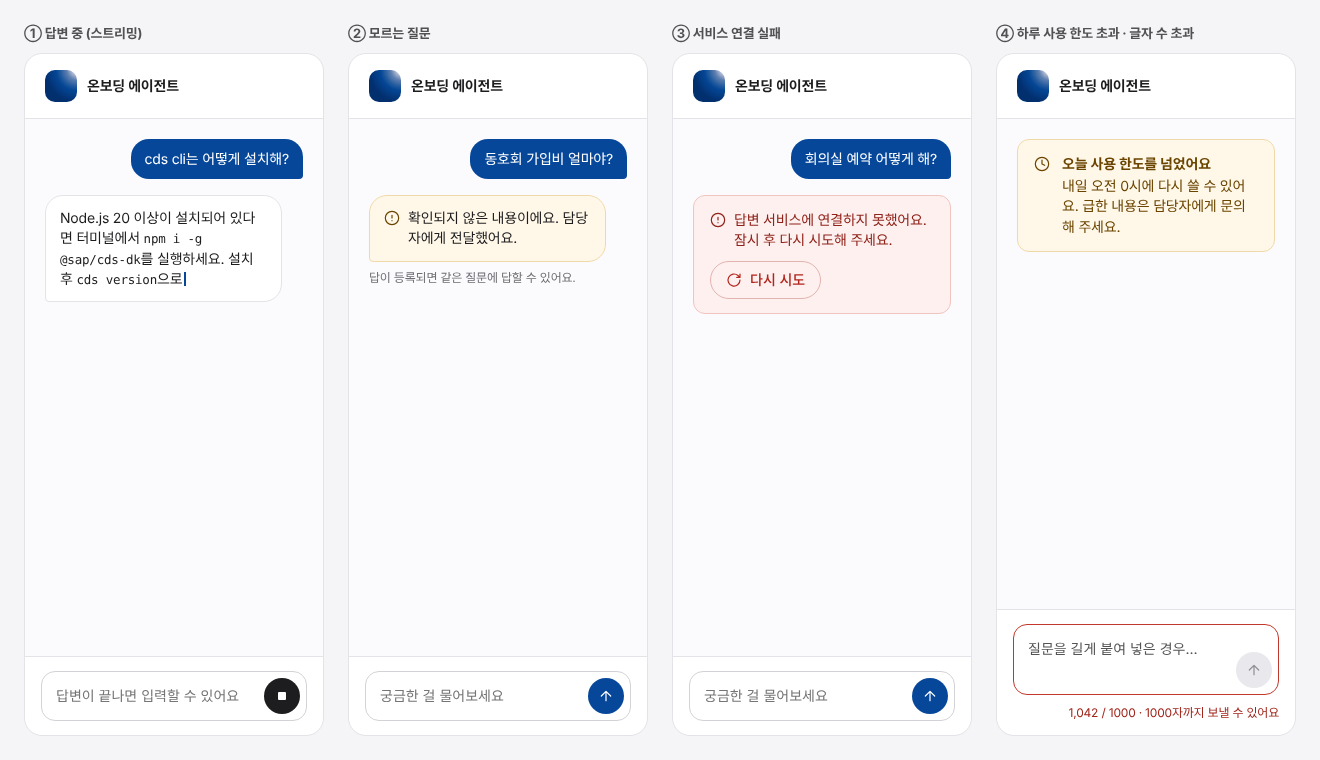
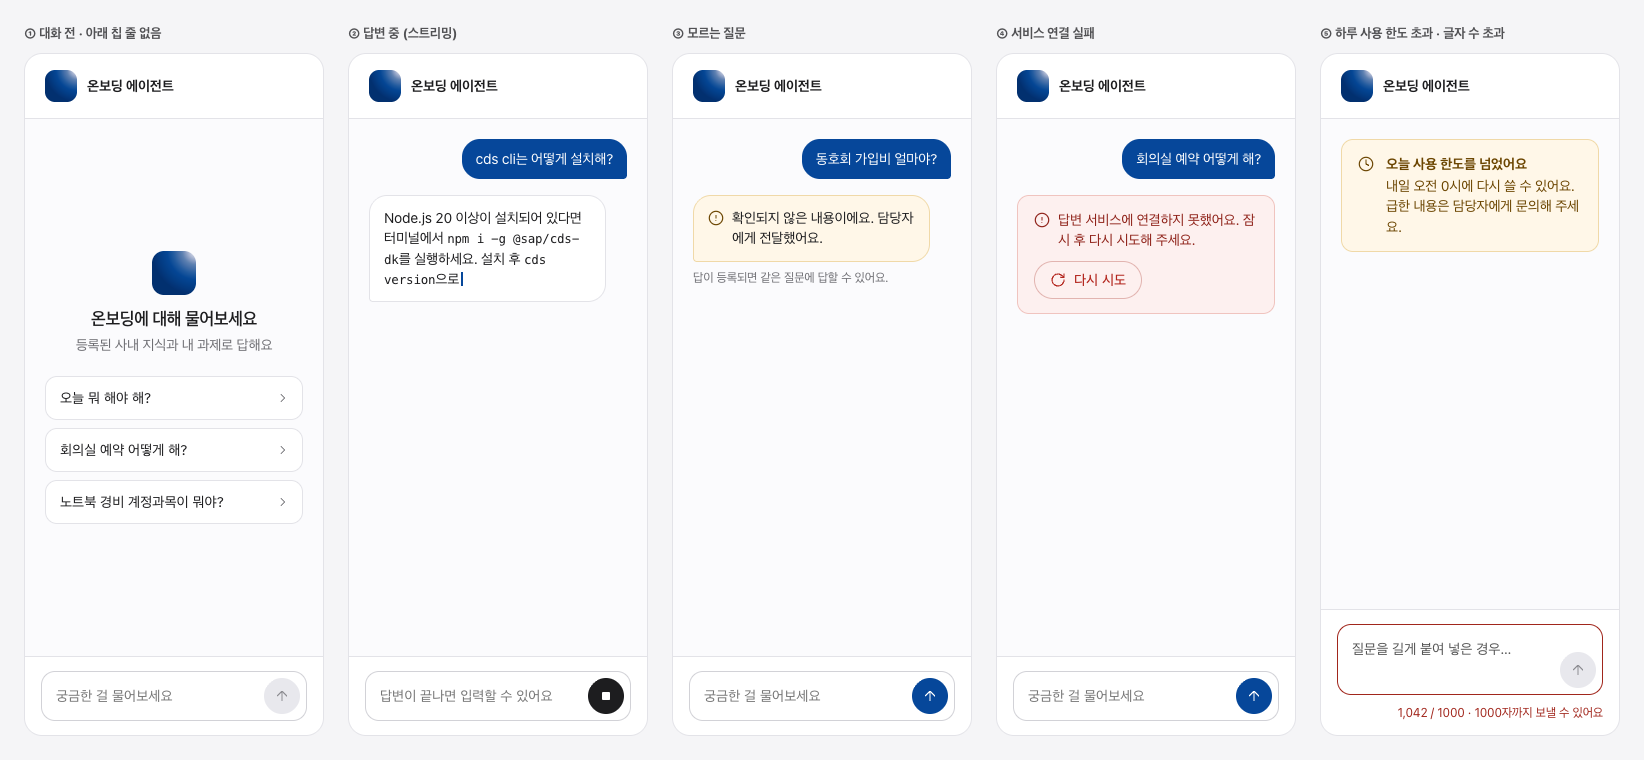
feat(web): show suggested questions as cards before the first chat message (#37)
* docs(design): add the pre-conversation chat state to the S4 mockup

WIP: mockup only, implementation follows after review.

* feat(web): show suggested questions as cards before the first chat message

Before any message the chat body shows the agent symbol, a one-line
intro and the three suggested questions as full-width 44px cards that
send right away. The chip row above the composer is hidden until the
first message, so the same question never appears twice.

Adds the mobile pre-conversation mockup and the rule to system.md.

---------

diff --git a/docs/design/onboarding-design/screens/S4-chat-states.html b/docs/design/onboarding-design/screens/S4-chat-states.html
@@ -14,10 +14,32 @@ body{margin:0}
 a{color:var(--primary)}a:hover{color:var(--primary-pressed)}
 </style>
 
-<div style="width: 1320px; height: 760px; box-sizing: border-box; padding: 24px; background: var(--canvas); display: grid; grid-template-columns: repeat(4, minmax(0, 1fr)); gap: 24px">
+<div style="width: 1644px; height: 760px; box-sizing: border-box; padding: 24px; background: var(--canvas); display: grid; grid-template-columns: repeat(5, minmax(0, 1fr)); gap: 24px">
 
   <div style="display: flex; flex-direction: column; gap: 10px; min-height: 0">
-    <b style="font-size: 13px; color: var(--secondary)">① 답변 중 (스트리밍)</b>
+    <b style="font-size: 13px; color: var(--secondary)">① 대화 전 · 아래 칩 줄 없음</b>
+    <div class="chat" style="flex: 1; min-height: 0">
+      <div class="chat-hd"><span class="chat-ava"><img src="../assets/blueward-symbol.png" alt=""></span><b>온보딩 에이전트</b></div>
+      <div class="chat-bd" style="flex: 1">
+        <div class="chat-empty">
+          <span class="chat-ava"><img src="../assets/blueward-symbol.png" alt=""></span>
+          <p class="chat-empty-title">온보딩에 대해 물어보세요</p>
+          <p class="chat-empty-sub">등록된 사내 지식과 내 과제로 답해요</p>
+          <div class="suggest-list" role="group" aria-label="추천 질문">
+          <button class="suggest" type="button"><span>오늘 뭐 해야 해?</span><svg class="ic" viewBox="0 0 24 24" aria-hidden="true"><path d="M9 18l6-6-6-6"></path></svg></button>
+          <button class="suggest" type="button"><span>회의실 예약 어떻게 해?</span><svg class="ic" viewBox="0 0 24 24" aria-hidden="true"><path d="M9 18l6-6-6-6"></path></svg></button>
+          <button class="suggest" type="button"><span>노트북 경비 계정과목이 뭐야?</span><svg class="ic" viewBox="0 0 24 24" aria-hidden="true"><path d="M9 18l6-6-6-6"></path></svg></button>
+          </div>
+        </div>
+      </div>
+      <div class="chat-ft">
+        <div class="composer"><label for="a0" style="position: absolute; width: 1px; height: 1px; overflow: hidden; clip: rect(0 0 0 0)">질문 입력</label><textarea id="a0" rows="1" placeholder="궁금한 걸 물어보세요"></textarea><button class="send" type="button" aria-label="보내기" disabled style="background: var(--track); color: var(--disabled-fg)"><svg class="ic" viewBox="0 0 24 24" aria-hidden="true"><path d="M12 19V5M5 12l7-7 7 7"></path></svg></button></div>
+      </div>
+    </div>
+  </div>
+
+  <div style="display: flex; flex-direction: column; gap: 10px; min-height: 0">
+    <b style="font-size: 13px; color: var(--secondary)">② 답변 중 (스트리밍)</b>
     <div class="chat" style="flex: 1; min-height: 0">
       <div class="chat-hd"><span class="chat-ava"><img src="../assets/blueward-symbol.png" alt=""></span><b>온보딩 에이전트</b></div>
       <div class="chat-bd" style="flex: 1">
@@ -31,7 +53,7 @@ a{color:var(--primary)}a:hover{color:var(--primary-pressed)}
   </div>
 
   <div style="display: flex; flex-direction: column; gap: 10px; min-height: 0">
-    <b style="font-size: 13px; color: var(--secondary)">② 모르는 질문</b>
+    <b style="font-size: 13px; color: var(--secondary)">③ 모르는 질문</b>
     <div class="chat" style="flex: 1; min-height: 0">
       <div class="chat-hd"><span class="chat-ava"><img src="../assets/blueward-symbol.png" alt=""></span><b>온보딩 에이전트</b></div>
       <div class="chat-bd" style="flex: 1">
@@ -48,7 +70,7 @@ a{color:var(--primary)}a:hover{color:var(--primary-pressed)}
   </div>
 
   <div style="display: flex; flex-direction: column; gap: 10px; min-height: 0">
-    <b style="font-size: 13px; color: var(--secondary)">③ 서비스 연결 실패</b>
+    <b style="font-size: 13px; color: var(--secondary)">④ 서비스 연결 실패</b>
     <div class="chat" style="flex: 1; min-height: 0">
       <div class="chat-hd"><span class="chat-ava"><img src="../assets/blueward-symbol.png" alt=""></span><b>온보딩 에이전트</b></div>
       <div class="chat-bd" style="flex: 1">
@@ -65,7 +87,7 @@ a{color:var(--primary)}a:hover{color:var(--primary-pressed)}
   </div>
 
   <div style="display: flex; flex-direction: column; gap: 10px; min-height: 0">
-    <b style="font-size: 13px; color: var(--secondary)">④ 하루 사용 한도 초과 · 글자 수 초과</b>
+    <b style="font-size: 13px; color: var(--secondary)">⑤ 하루 사용 한도 초과 · 글자 수 초과</b>
     <div class="chat" style="flex: 1; min-height: 0">
       <div class="chat-hd"><span class="chat-ava"><img src="../assets/blueward-symbol.png" alt=""></span><b>온보딩 에이전트</b></div>
       <div class="chat-bd" style="flex: 1">

diff --git a/apps/web/src/features/chat/ChatPanel.tsx b/apps/web/src/features/chat/ChatPanel.tsx
@@ -1,4 +1,4 @@
-import { ArrowUp, BookOpen, CircleAlert, Clock, ListChecks, MessageSquare, RotateCw, X } from 'lucide-react'
+import { ArrowUp, BookOpen, ChevronRight, CircleAlert, Clock, ListChecks, MessageSquare, RotateCw, X } from 'lucide-react'
 import { useEffect, useId, useRef, useState, type KeyboardEvent, type ReactNode } from 'react'
 import { Link } from 'react-router'
 import { useAuth } from '@/app/AuthProvider'
@@ -34,6 +34,8 @@ function ChatAside() {
   const inputRef = useRef<HTMLTextAreaElement>(null)
   const bodyRef = useRef<HTMLDivElement>(null)
   const counterId = useId()
+  const introId = useId()
+  const empty = messages.length === 0
 
   const tooLong = input.length > MAX_MESSAGE_LENGTH
   const canSend = !sending && input.trim().length > 0 && !tooLong
@@ -93,10 +95,29 @@ function ChatAside() {
         </header>
 
         <div ref={bodyRef} className="flex flex-1 flex-col gap-4 overflow-y-auto bg-surface-chat p-4 lg:p-5">
-          {messages.length === 0 && (
-            <p className="m-auto max-w-[280px] text-center text-sm text-muted-foreground">
-              온보딩에 대해 궁금한 걸 물어보세요. 등록된 사내 지식과 내 과제로 답해요.
-            </p>
+          {empty && (
+            // 대화 전(시안 S4 ①): 가운데 소개와 추천 질문 카드. 아래 칩 줄은 첫 메시지 뒤에만 보인다.
+            <section aria-labelledby={introId} className="my-auto flex w-full flex-col items-center gap-1 text-center">
+              <img src={symbolUrl} alt="" className="mb-2 size-11 rounded-[12px]" />
+              <p id={introId} className="text-lead font-semibold">
+                온보딩에 대해 물어보세요
+              </p>
+              <p className="text-sm text-muted-foreground">등록된 사내 지식과 내 과제로 답해요</p>
+              <div role="group" aria-label="추천 질문" className="mt-4 flex w-full flex-col gap-2">
+                {SUGGESTIONS.map((s) => (
+                  <button
+                    key={s}
+                    type="button"
+                    disabled={sending}
+                    onClick={() => submit(s)}
+                    className="group/suggest flex min-h-11 w-full items-center justify-between gap-2 rounded-lg border border-border bg-card py-2 pr-3 pl-3.5 text-left text-sm outline-none hover:border-primary hover:text-primary focus-visible:ring-2 focus-visible:ring-ring disabled:pointer-events-none disabled:opacity-50"
+                  >
+                    {s}
+                    <ChevronRight className="size-3.5 shrink-0 text-muted-foreground group-hover/suggest:text-primary" aria-hidden />
+                  </button>
+                ))}
+              </div>
+            </section>
           )}
           {messages.map((message, i) =>
             message.role === 'user' ? (
@@ -119,19 +140,21 @@ function ChatAside() {
         </div>
 
         <div className="flex flex-col gap-2.5 border-t border-border px-3 pt-3 pb-5 lg:px-4 lg:pb-3.5">
-          <div className="-my-1 flex gap-2 overflow-x-auto py-1 [scrollbar-width:none] lg:flex-wrap">
-            {SUGGESTIONS.map((s) => (
-              <button
-                key={s}
-                type="button"
-                disabled={sending}
-                onClick={() => submit(s)}
-                className="relative h-9 shrink-0 rounded-full border border-input bg-card px-3.5 text-label outline-none after:absolute after:inset-x-0 after:-inset-y-1 hover:border-primary hover:text-primary focus-visible:ring-2 focus-visible:ring-ring disabled:pointer-events-none disabled:opacity-50"
-              >
-                {s}
-              </button>
-            ))}
-          </div>
+          {!empty && (
+            <div role="group" aria-label="추천 질문" className="-my-1 flex gap-2 overflow-x-auto py-1 [scrollbar-width:none] lg:flex-wrap">
+              {SUGGESTIONS.map((s) => (
+                <button
+                  key={s}
+                  type="button"
+                  disabled={sending}
+                  onClick={() => submit(s)}
+                  className="relative h-9 shrink-0 rounded-full border border-input bg-card px-3.5 text-label outline-none after:absolute after:inset-x-0 after:-inset-y-1 hover:border-primary hover:text-primary focus-visible:ring-2 focus-visible:ring-ring disabled:pointer-events-none disabled:opacity-50"
+                >
+                  {s}
+                </button>
+              ))}
+            </div>
+          )}
           <div
             className={cn(
               'flex items-end gap-2 rounded-[14px] border border-input bg-card py-1.5 pr-1.5 pl-3.5 focus-within:border-ring',

diff --git a/docs/design/onboarding-design/screens/S4-chat-mobile-empty.html b/docs/design/onboarding-design/screens/S4-chat-mobile-empty.html
@@ -1,0 +1,47 @@
+<!doctype html>
+<html lang="ko">
+<head>
+<meta charset="utf-8">
+<title>S4 에이전트 채팅 모바일 (대화 전)</title>
+<link rel="stylesheet" href="../assets/ui.css">
+</head>
+<body>
+
+
+<link rel="stylesheet" href="https://fonts.googleapis.com/css2?family=Noto+Sans+KR:wght@400;500;600;700&display=swap">
+<style>
+body{margin:0}
+a{color:var(--primary)}a:hover{color:var(--primary-pressed)}
+</style>
+
+<div style="width: 390px; height: 844px; background: var(--surface-chat); display: flex; flex-direction: column; overflow: hidden">
+  <header style="background: #ffffff; border-bottom: 1px solid var(--border); padding: 10px 8px 10px 4px; display: flex; align-items: center; gap: 8px">
+    <a href="S2-me-mobile.html" class="icon-btn" aria-label="닫기" style="width: 44px; height: 44px"><svg class="ic ic-lg" viewBox="0 0 24 24" aria-hidden="true"><path d="M19 12H5M12 19l-7-7 7-7"></path></svg></a>
+    <span class="chat-ava"><img src="../assets/blueward-symbol.png" alt=""></span>
+    <div style="display: flex; flex-direction: column; flex: 1; line-height: 1.25"><b style="font-size: 15px">온보딩 에이전트</b><span class="caption">회사·AI팀 지식으로 답해요</span></div>
+  </header>
+
+  <div style="flex: 1; overflow: hidden; padding: 16px; display: flex; flex-direction: column; gap: 14px">
+    <div class="chat-empty">
+      <span class="chat-ava"><img src="../assets/blueward-symbol.png" alt=""></span>
+      <p class="chat-empty-title">온보딩에 대해 물어보세요</p>
+      <p class="chat-empty-sub">등록된 사내 지식과 내 과제로 답해요</p>
+      <div class="suggest-list" role="group" aria-label="추천 질문">
+        <button class="suggest" type="button"><span>오늘 뭐 해야 해?</span><svg class="ic" viewBox="0 0 24 24" aria-hidden="true"><path d="M9 18l6-6-6-6"></path></svg></button>
+        <button class="suggest" type="button"><span>회의실 예약 어떻게 해?</span><svg class="ic" viewBox="0 0 24 24" aria-hidden="true"><path d="M9 18l6-6-6-6"></path></svg></button>
+        <button class="suggest" type="button"><span>노트북 경비 계정과목이 뭐야?</span><svg class="ic" viewBox="0 0 24 24" aria-hidden="true"><path d="M9 18l6-6-6-6"></path></svg></button>
+      </div>
+    </div>
+  </div>
+
+  <footer style="background: #ffffff; border-top: 1px solid var(--border); padding: 12px 12px 20px; display: flex; flex-direction: column; gap: 10px">
+    <div class="composer">
+      <label for="qm" style="position: absolute; width: 1px; height: 1px; overflow: hidden; clip: rect(0 0 0 0)">질문 입력</label>
+      <textarea id="qm" rows="1" placeholder="궁금한 걸 물어보세요"></textarea>
+      <button class="send" type="button" aria-label="보내기" disabled style="background: var(--track); color: var(--disabled-fg)"><svg class="ic" viewBox="0 0 24 24" aria-hidden="true"><path d="M12 19V5M5 12l7-7 7 7"></path></svg></button>
+    </div>
+  </footer>
+</div>
+
+</body>
+</html>

diff --git a/apps/web/src/features/chat/ChatPanel.test.tsx b/apps/web/src/features/chat/ChatPanel.test.tsx
@@ -172,6 +172,51 @@ describe('ChatPanel', () => {
     expect(await chat().findByText('답')).toBeInTheDocument()
   })
 
+  describe('대화 전 빈 상태(S4 ①)', () => {
+    const QUESTIONS = ['오늘 뭐 해야 해?', '회의실 예약 어떻게 해?', '노트북 경비 계정과목이 뭐야?']
+
+    function emptyState() {
+      return chat().queryByRole('region', { name: '온보딩에 대해 물어보세요' })
+    }
+
+    it('본문에 소개와 추천 질문 3개를 카드로 보여 주고, 아래 칩 줄은 없다', () => {
+      renderPanel()
+
+      const intro = emptyState()
+      expect(intro).toBeInTheDocument()
+      expect(within(intro!).getByText('등록된 사내 지식과 내 과제로 답해요')).toBeInTheDocument()
+      const cards = within(within(intro!).getByRole('group', { name: '추천 질문' })).getAllByRole('button')
+      expect(cards.map((b) => b.textContent)).toEqual(QUESTIONS)
+      // 같은 이름의 버튼이 칩 줄에 또 있지 않다
+      for (const q of QUESTIONS) expect(chat().getAllByRole('button', { name: q })).toHaveLength(1)
+      expect(chat().getAllByRole('group', { name: '추천 질문' })).toHaveLength(1)
+    })
+
+    it('추천 질문 카드를 누르면 그 질문으로 /chat 요청', async () => {
+      agent.agentFetch.mockResolvedValueOnce(streamResponse([{ type: 'token', text: '답' }, { type: 'done' }]))
+      renderPanel()
+
+      await userEvent.click(within(emptyState()!).getByRole('button', { name: '노트북 경비 계정과목이 뭐야?' }))
+
+      expect(agent.agentFetch).toHaveBeenCalledWith('/chat', { message: '노트북 경비 계정과목이 뭐야?', history: [] })
+    })
+
+    it('첫 메시지 뒤에는 빈 상태가 사라지고 추천 칩 줄이 입력창 위에 나타난다', async () => {
+      agent.agentFetch.mockResolvedValueOnce(streamResponse([{ type: 'token', text: '답' }, { type: 'done' }]))
+      renderPanel()
+
+      await ask('안녕')
+      expect(await chat().findByText('답')).toBeInTheDocument()
+
+      expect(emptyState()).not.toBeInTheDocument()
+      const chips = chat().getByRole('group', { name: '추천 질문' })
+      expect(within(chips).getAllByRole('button').map((b) => b.textContent)).toEqual(QUESTIONS)
+      for (const q of QUESTIONS) expect(chat().getAllByRole('button', { name: q })).toHaveLength(1)
+      const input = chat().getByLabelText('질문 입력')
+      expect(chips.compareDocumentPosition(input) & Node.DOCUMENT_POSITION_FOLLOWING).toBeTruthy()
+    })
+  })
+
   it('chat:ask 이벤트를 받으면 입력창을 채운다(보내지는 않는다)', async () => {
     renderPanel()
 

diff --git a/docs/design/onboarding-design/assets/ui.css b/docs/design/onboarding-design/assets/ui.css
@@ -207,6 +207,16 @@ a{color:var(--link);text-decoration:none}a:hover{text-decoration:underline}
 .msg-a .bubble{background:var(--surface);border:1px solid var(--border);padding:12px 14px;border-radius:18px 18px 18px 4px;font-size:14px}
 .src{display:flex;flex-wrap:wrap;gap:6px;align-items:center;font-size:12px;color:var(--muted)}
 .src a{display:inline-flex;align-items:center;gap:4px;font-size:12px;padding:3px 8px;border-radius:6px;background:var(--canvas);color:var(--link)}
+/* 대화 전: 본문 가운데 소개 + 추천 질문 카드. 아래 칩 줄은 첫 메시지 뒤에만 보인다 */
+.chat-empty{margin:auto 0;display:flex;flex-direction:column;align-items:center;gap:4px;text-align:center}
+.chat-empty .chat-ava{width:44px;height:44px;border-radius:12px;margin-bottom:8px}
+.chat-empty-title{font-family:var(--font-display);font-size:var(--fs-lead);font-weight:600;letter-spacing:-0.3px;margin:0}
+.chat-empty-sub{font-size:var(--fs-body);color:var(--muted);margin:0}
+.suggest-list{display:flex;flex-direction:column;gap:8px;width:100%;margin-top:16px}
+.suggest{display:flex;align-items:center;justify-content:space-between;gap:8px;min-height:44px;padding:0 12px 0 14px;border:1px solid var(--border);border-radius:12px;background:var(--surface);font:inherit;font-size:var(--fs-body);color:var(--foreground);text-align:left;cursor:pointer}
+.suggest .ic{width:14px;height:14px;color:var(--muted)}
+.suggest:hover{border-color:var(--link);color:var(--link)}.suggest:hover .ic{color:var(--link)}
+.suggest:focus-visible,.suggest.is-focus{outline:none;box-shadow:0 0 0 2px var(--primary)}
 .chat-ft{padding:14px 16px;border-top:1px solid var(--border);display:flex;flex-direction:column;gap:10px}
 .composer{display:flex;align-items:flex-end;gap:8px;border:1px solid var(--border-strong);border-radius:14px;padding:6px 6px 6px 14px;background:var(--surface)}
 .composer textarea{flex:1;border:0;resize:none;font:inherit;font-size:14px;padding:8px 0;min-height:24px;outline:none;background:transparent}

diff --git a/.interface-design/system.md b/.interface-design/system.md
@@ -129,6 +129,11 @@
   - 머리 왼쪽에는 날짜와 완료 수를 둔다. 날짜는 기한이 하루면 "11월 17일", 여러 날이면 "~ 11월 22일"이다.
   - 머리 오른쪽에는 남은 일 요약("할 일 N · 보완 요청 N · 확인 대기 N")을 둔다. 접혀 있어도 남은 일이 보이게 하려는 것이다.
   - 계산은 `features/newhire/stages.ts`에 있다.
+- **채팅 빈 상태(S4 대화 전):**
+  - 대화가 없으면 본문 가운데에 심볼(44px), 제목 "온보딩에 대해 물어보세요"(`text-lead` 600), 설명 "등록된 사내 지식과 내 과제로 답해요"(`text-sm` muted)를 둔다.
+  - 추천 질문은 그 아래에 패널 너비를 채우는 카드형 버튼(44px, `rounded-lg`, `border-border`, 오른쪽 chevron)으로 둔다. 누르면 바로 보낸다. 시안 클래스는 `.suggest`다.
+  - 대화 전에는 입력창 위 칩 줄을 숨긴다. 첫 메시지 뒤에는 칩 줄(36px 칩, 누르는 영역 44)이 돌아오고 본문 카드는 사라진다. 같은 질문 버튼이 두 곳에 동시에 있지 않다.
+  - 데스크톱 고정 패널과 모바일 전체 화면이 같은 빈 상태를 쓴다.
 
 ## 모션
 
